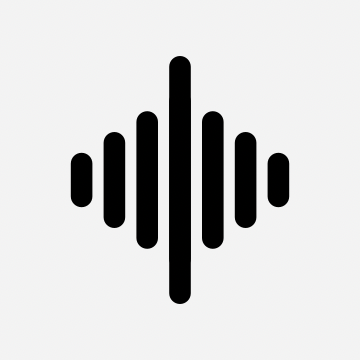
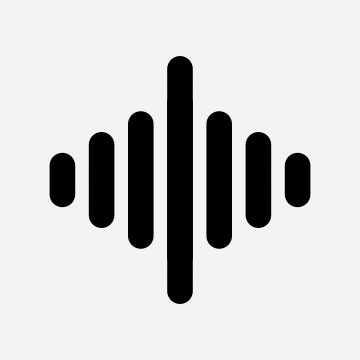
Tighten the menu bar mark's horizontal padding
Widen the seven bars and gaps so the waveform fills more of the template
canvas, leaving less empty space to the left and right of the status item
without changing its height. The monochrome mark still uses the same seven-bar
and midpoint shape as the app icon.

Changed region(s): [[0.1222, 0.1528, 0.4889, 0.8556], [0.5194, 0.1528, 0.8861, 0.825]]

diff --git a/Sources/Midtrack/MenuBarIcon.swift b/Sources/Midtrack/MenuBarIcon.swift
@@ -10,8 +10,8 @@ enum MenuBarIcon {
             NSColor.black.setFill()
 
             let heights: [CGFloat] = [3.4, 6.0, 8.6, 11.2, 8.6, 6.0, 3.4]
-            let barWidth: CGFloat = 1.35
-            let gap: CGFloat = 0.7
+            let barWidth: CGFloat = 1.6
+            let gap: CGFloat = 0.85
             let total = CGFloat(heights.count) * barWidth + CGFloat(heights.count - 1) * gap
             let startX = (rect.width - total) / 2
 
